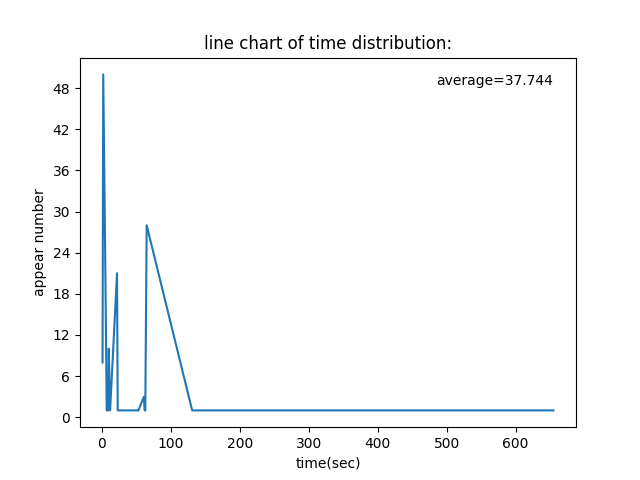
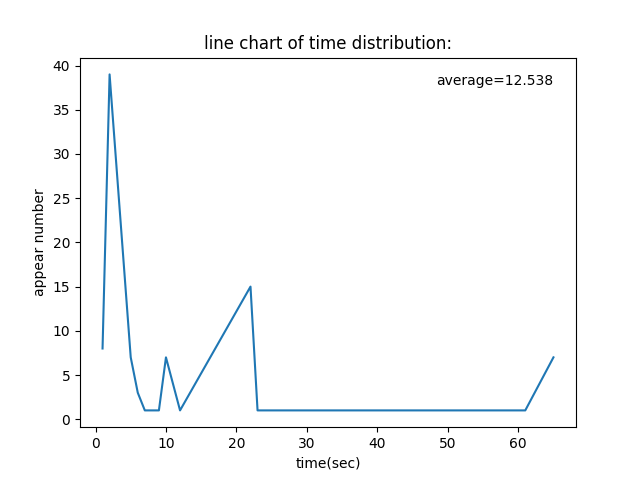
update

diff --git a/validation/device/app/server.js b/validation/device/app/server.js
@@ -1,0 +1,47 @@
+const express = require("express");
+const cors = require('cors');
+const path = require('path');
+const fs = require('fs');
+const app = express();
+
+app.use(cors());
+app.use(express.static(path.join(__dirname,'public')));
+app.use(express.json());
+app.use(express.urlencoded({ extended: true }));
+
+app.set('views', './views');
+app.set('view engine', 'ejs');
+
+app.listen(3000, () => {
+  console.log("Application started and Listening on port 3000");
+});
+
+app.get("/", (req, res) => {
+  res.render("home");
+});
+
+app.get("/out/recordtime", async function(req, res) {
+	res.setHeader('Content-Type','application/json');
+    let result = false;
+    let content = '';
+    try {
+        let data = await fs.readFileSync(`${__dirname}/out/time.txt`, 'utf-8')
+                            .split('\n');
+        data  = data.toString()
+            // .replace(/[“”‘’]/g,'');
+        let base64data = new Buffer.from(data).toString('base64');
+        if (base64data) {
+            result = true;
+            content = base64data;
+        } else {
+            content = '';
+        }
+    } catch (error) {
+        console.log("time.txt is not exist!!");
+    }
+    // return result
+    res.json({
+        'success': result,
+        'content': content
+    });
+});

diff --git a/validation/analysis.py b/validation/analysis.py
@@ -66,4 +66,5 @@ class Analysis:
 
 if __name__ == '__main__':
     a = Analysis()
+    a.draw(targetfile='a.txt', toInt=True, draw=True, filename='a.png')
     a.combine(targetfiles=['a.txt', 'b.txt', 'c.txt'], toInt=True, draw=True, filename='total.png')
